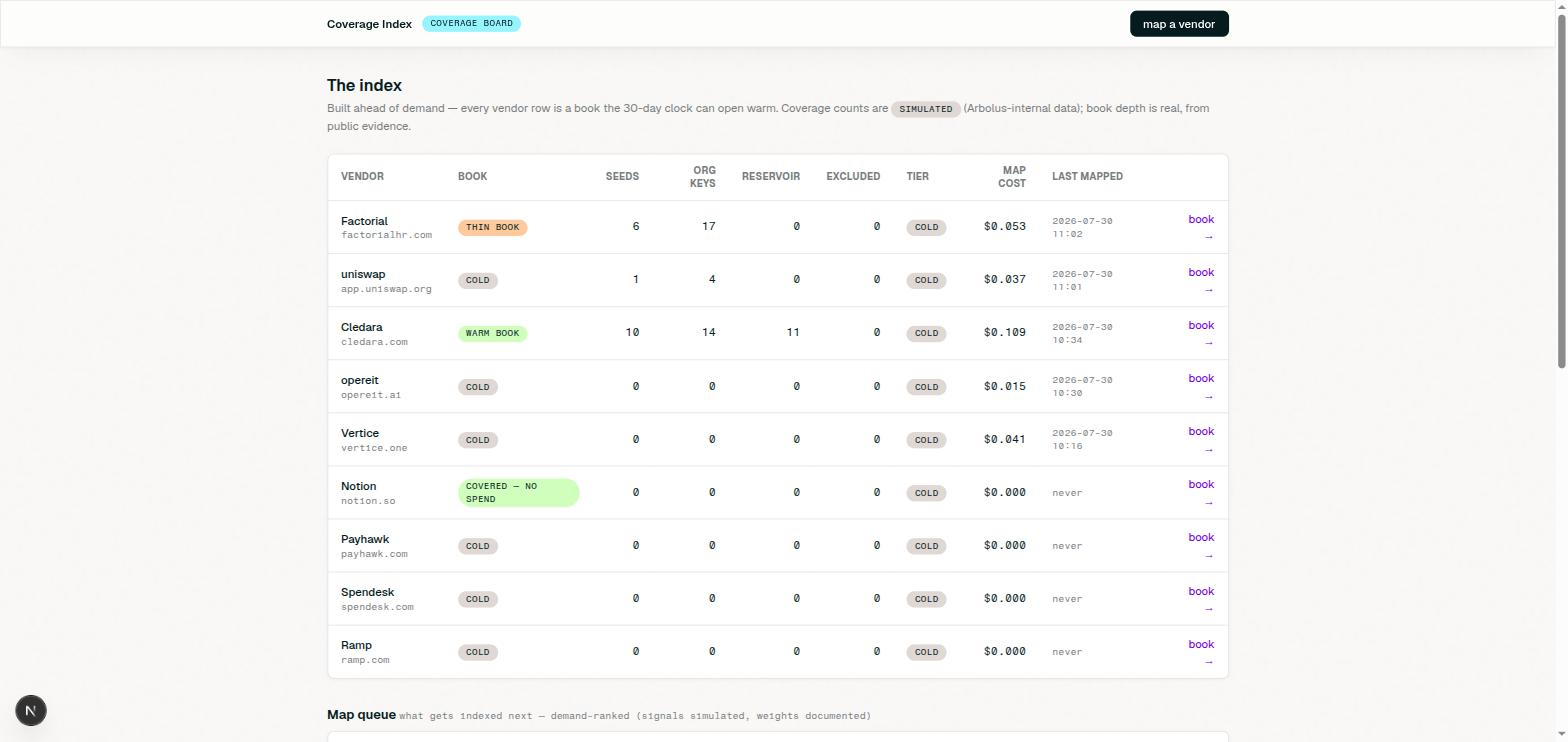
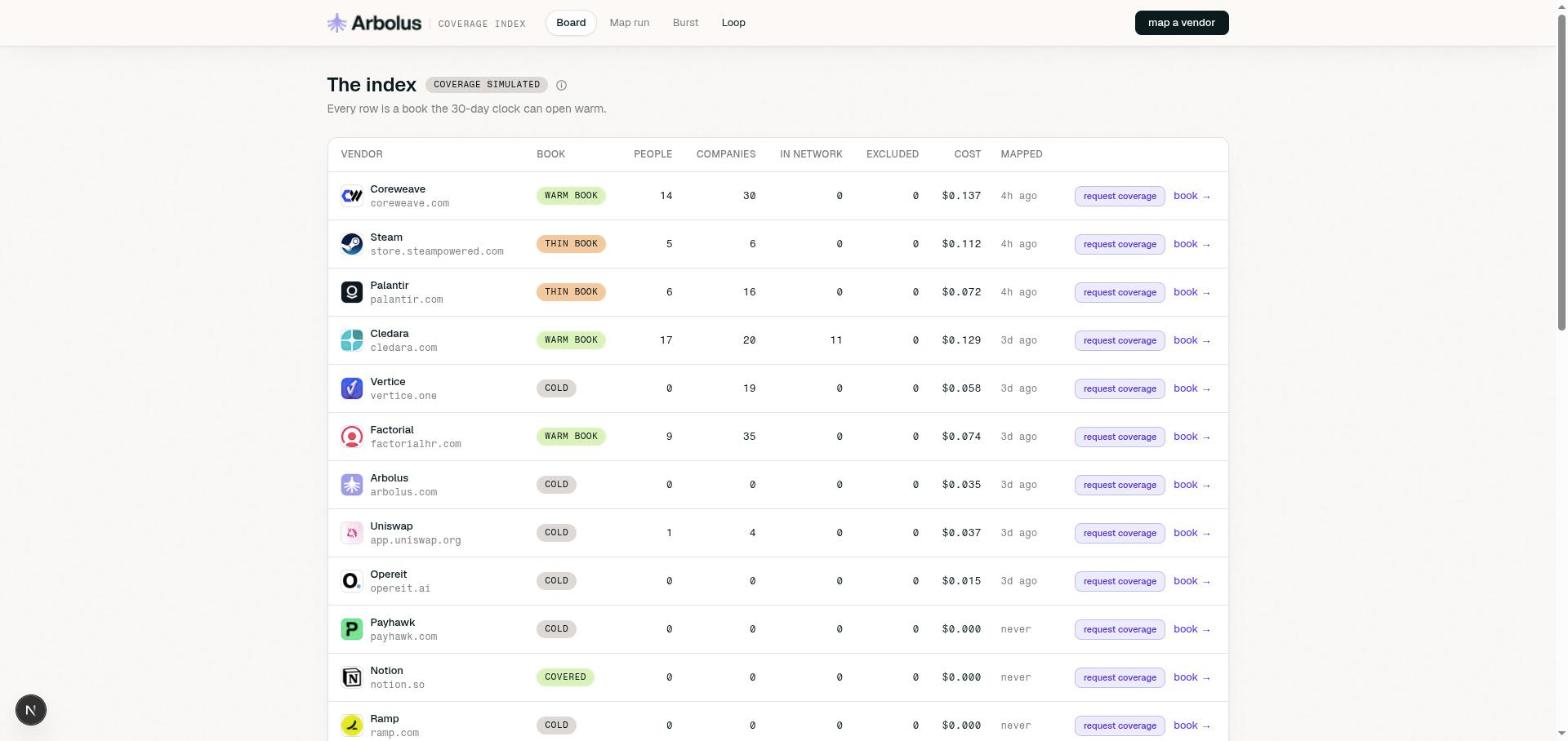
feat(loop): the head-vs-tail curve opens the page — ink-wash SVG schematic with the demand-event marker; README refreshed with current screenshots and surfaces
The curve is the case in one shape: the head spike (2,000+ reviews
each) where today's loops pay, the empty tail of 20,000 companies, the
covered=20 dashed line barely off the baseline, and a violet marker
where 'a client opens a company here → the burst fires'. Labelled
ILLUSTRATIVE — the shape, not Arbolus data; the anchors (2,000+, 20)
are real. Hand-drawn server-side SVG in the paper tokens — no chart
library for one schematic path.

README: 11-lane truth, all seven surfaces incl. /reference and /join,
fresh screenshots of the final UI (old ones predated the paper pass and
the renames).

Claude-Session: https://claude.ai/code/session_01LUn1Setz9H3FkjDAQijzPt

diff --git a/src/app/loop/distribution.tsx b/src/app/loop/distribution.tsx
@@ -1,0 +1,162 @@
+// The head-vs-tail curve — the whole case in one schematic. ILLUSTRATIVE:
+// the power-law shape every review marketplace shows, not Arbolus data.
+// The two anchors are real: head tools carry 2,000+ reviews each, and
+// covered means 20. Pure server-side SVG, paper style, one series with an
+// ink-wash gradient; the demand-event marker on the tail ties this curve
+// to the burst's trigger.
+
+const W = 800;
+const H = 210;
+const LEFT = 8;
+const RIGHT = 8;
+const BASE = 172; // baseline y
+const TOP = 30; // curve peak y
+const SPAN = BASE - TOP;
+
+// long-tail shape: h(0)=1 at the head, ~0 across the tail
+function h(t: number): number {
+  return Math.pow(0.004 / (t + 0.004), 1.1);
+}
+
+function build() {
+  const plotW = W - LEFT - RIGHT;
+  const pts: [number, number][] = [];
+  for (let i = 0; i <= 220; i++) {
+    const t = i / 220;
+    pts.push([LEFT + t * plotW, BASE - h(t) * SPAN]);
+  }
+  const line = pts
+    .map(([x, y], i) => `${i === 0 ? "M" : "L"}${x.toFixed(1)} ${y.toFixed(1)}`)
+    .join(" ");
+  const area = `${line} L${(W - RIGHT).toFixed(1)} ${BASE} L${LEFT} ${BASE} Z`;
+  // covered = 20 reviews vs a 2,000+ head → the threshold sits at ~1% of peak
+  const hThresh = 0.045;
+  const thresholdY = BASE - hThresh * SPAN;
+  const tCross = 0.004 / Math.pow(hThresh, 1 / 1.1) - 0.004;
+  const crossX = LEFT + tCross * plotW;
+  // the demand event: a client opens a company deep in the tail
+  const tEvent = 0.62;
+  const eventX = LEFT + tEvent * plotW;
+  const eventY = BASE - h(tEvent) * SPAN;
+  return { area, line, thresholdY, crossX, eventX, eventY };
+}
+
+export default function Distribution() {
+  const { area, line, thresholdY, crossX, eventX, eventY } = build();
+  return (
+    <svg
+      viewBox={`0 0 ${W} ${H + 20}`}
+      className="mt-3 h-auto w-full"
+      role="img"
+      aria-label="Illustrative distribution of reviews across companies: a small head of tools with thousands of reviews each, and a long tail of companies with none. The covered threshold of twenty reviews sits just above the tail, and a marker shows a client opening an uncovered company deep in the tail."
+    >
+      <defs>
+        <linearGradient id="dist-wash" x1="0" y1="0" x2="0" y2="1">
+          <stop offset="0%" stopColor="var(--color-violet-300)" stopOpacity="0.55" />
+          <stop offset="55%" stopColor="var(--color-violet-200)" stopOpacity="0.3" />
+          <stop offset="100%" stopColor="var(--color-violet-100)" stopOpacity="0.08" />
+        </linearGradient>
+      </defs>
+
+      {/* the one series — ink-wash area + line */}
+      <path d={area} fill="url(#dist-wash)" />
+      <path
+        d={line}
+        className="stroke-violet-link"
+        strokeWidth="2"
+        fill="none"
+        strokeLinecap="round"
+      />
+
+      {/* baseline */}
+      <line x1={LEFT} y1={BASE} x2={W - RIGHT} y2={BASE} className="stroke-line" strokeWidth="1" />
+
+      {/* covered = 20 threshold */}
+      <line
+        x1={LEFT}
+        y1={thresholdY}
+        x2={W - RIGHT}
+        y2={thresholdY}
+        className="stroke-ink-35"
+        strokeWidth="1"
+        strokeDasharray="4 4"
+      />
+      <text
+        x={LEFT + 96}
+        y={thresholdY - 6}
+        className="fill-subtle font-mono"
+        fontSize="10"
+        letterSpacing="0.06em"
+      >
+        COVERED = 20 REVIEWS
+      </text>
+
+      {/* head/tail boundary tick */}
+      <line
+        x1={crossX}
+        y1={thresholdY}
+        x2={crossX}
+        y2={BASE}
+        className="stroke-ink-35"
+        strokeWidth="1"
+        strokeDasharray="2 3"
+      />
+
+      {/* head annotation */}
+      <text x={crossX + 18} y={TOP + 14} className="fill-ink" fontSize="13" fontWeight="500">
+        the head — a few tools, 2,000+ reviews each
+      </text>
+      <text x={crossX + 18} y={TOP + 32} className="fill-subtle" fontSize="12">
+        today&rsquo;s loops feed here: views live here, so the royalty pays here
+      </text>
+
+      {/* tail annotation */}
+      <text x={W * 0.42} y={BASE - 78} className="fill-ink" fontSize="13" fontWeight="500">
+        the tail — most of 20,000 companies at zero
+      </text>
+      <text x={W * 0.42} y={BASE - 60} className="fill-subtle" fontSize="12">
+        the index aims every loop here
+      </text>
+
+      {/* the demand event on the tail — the burst's trigger, drawn */}
+      <line
+        x1={eventX}
+        y1={eventY - 4}
+        x2={eventX}
+        y2={eventY - 26}
+        className="stroke-violet-link"
+        strokeWidth="1"
+      />
+      <circle
+        cx={eventX}
+        cy={eventY}
+        r="4.5"
+        className="fill-card stroke-violet-link"
+        strokeWidth="2"
+      />
+      <circle cx={eventX} cy={eventY} r="9" className="stroke-violet-300" strokeWidth="1" fill="none" opacity="0.6" />
+      <text
+        x={eventX}
+        y={eventY - 34}
+        textAnchor="middle"
+        className="fill-violet-link font-mono"
+        fontSize="10"
+        letterSpacing="0.06em"
+      >
+        A CLIENT OPENS A COMPANY HERE → THE BURST FIRES
+      </text>
+
+      {/* x axis label */}
+      <text
+        x={W / 2}
+        y={H + 12}
+        textAnchor="middle"
+        className="fill-subtle font-mono"
+        fontSize="10"
+        letterSpacing="0.06em"
+      >
+        COMPANIES, RANKED BY NUMBER OF REVIEWS →
+      </text>
+    </svg>
+  );
+}

diff --git a/src/app/loop/page.tsx b/src/app/loop/page.tsx
@@ -4,6 +4,7 @@ import AppHeader from "@/components/shell/app-header";
 import SiteFooter from "@/components/shell/site-footer";
 import InfoHint from "@/components/ui/info-hint";
 import { vendorName } from "../vendor-name";
+import Distribution from "./distribution";
 import MetricTiles from "./metric-tiles";
 
 export const dynamic = "force-dynamic";
@@ -90,7 +91,25 @@ export default async function LoopPage() {
           </InfoHint>
         </div>
 
-        <div className="mt-5 grid gap-6 lg:grid-cols-2">
+        {/* the head-vs-tail curve — the whole case in one shape */}
+        <section className="reveal reveal-d1 mt-5">
+          <div className="pane p-5">
+            <div className="flex flex-wrap items-center gap-2">
+              <h2 className="eyebrow">where the reviews are today</h2>
+              <span className="pill bg-city-sanjose">illustrative</span>
+              <InfoHint>
+                The shape every review marketplace shows, drawn schematically —
+                this is not Arbolus&rsquo;s data. The two anchors are real: head
+                tools carry 2,000+ reviews each, and covered means 20. Per-view
+                royalties concentrate all earnings on the head, so the tail stays
+                empty — which is the whole case in one curve.
+              </InfoHint>
+            </div>
+            <Distribution />
+          </div>
+        </section>
+
+        <div className="mt-8 grid gap-6 lg:grid-cols-2">
           {/* R0 offer */}
           <section className="reveal reveal-d1 self-start rounded-xl border border-violet-100 bg-violet-50 p-5">
             <div className="flex flex-wrap items-center gap-2">

diff --git a/README.md b/README.md
@@ -15,22 +15,24 @@ The index is built **ahead of demand** from public evidence, with provenance and
 
 | Live (real public data) | Simulated (labelled in the UI) |
 |---|---|
-| 6-lane map run: sitemap harvest, customer-page extraction, Wayback churn diff, ATS job-post sweep, PeerSpot, SERP long-tail | The demand trigger (their API has no write path — probe-verified) |
-| Claude classification: persona class, 4-part confidence decomposition | Arbolus-internal coverage counts |
-| The 8 eligibility checks, rejections stored with reasons | The 200k expert reservoir (synthetic base — the **join logic is real**) |
-| Per-lane cost + latency journaling, response cache | Invite sends (drafted, never sent — `sent=false` is never flipped) |
+| 11-lane map run: 7 live in every run (sitemap harvest, customer pages, Wayback churn diff, logo-wall diff, ATS job-post sweep, PeerSpot, SERP long-tail) + 3 nightly local (community, EU TED procurement, GitHub verify-only) + the classify step | The demand trigger (their API has no write path — probe-verified) |
+| Claude classification — the engine's only AI step: persona class, 4-part confidence decomposition | Arbolus-internal coverage counts |
+| The 8 eligibility checks, rejections stored with reasons | The 200k expert base (synthetic — the **in-network join logic is real**) |
+| Per-lane cost + latency journaling, the learning loop's budget reallocation | Invite sends (drafted per candidate, never sent — `sent=false` is never flipped) |
 
 ## Surfaces
 
-- `/run` — the map run, streaming live over SSE (terminal view)
-- `/coverage` — the index at a glance; book depth per vendor
-- `/book/[domain]` — candidates under a masking contract (one unmask toggle), exclusions with reasons, reservoir join, channel-legality mask
-- `/burst` — the 30-day clock: trigger branch from the real book state, the walk-to-20 with every assumption labelled, cost vs the manual baseline
-- `/loop` — the activation loops and the one scoped offer change (R0)
+- `/coverage` — the index at a glance: book depth per vendor, the demand-ranked map queue, the learning loop
+- `/run` — the map run, streaming live over SSE, with cost and time on the ticker
+- `/book/[domain]` — the output: candidates under a masking contract (one unmask toggle), evidence with provenance, per-person reach and the composer's invite draft, exclusions with reasons, the contact-legality panel
+- `/burst` — the 30-day clock: trigger branch from the real book state, the walk-to-20 with every assumption labelled and priced live, cost vs the manual baseline
+- `/loop` — the head-vs-tail curve, the activation loops, and the one scoped offer change
+- `/join/[domain]` — the contributor-facing conversion page every invite links to
+- `/reference` — the data dictionary: every column, every formula, every threshold
 
 ## Stack
 
-Next.js (App Router) + Supabase + Claude API on Vercel. Identities in rendered output are masked by default; evidence provenance is stored in full. AI runs acquisition, matching and verification — it never authors contributor content.
+Next.js (App Router) + Supabase + Claude API on Vercel. Identities in rendered output are masked server-side by default; evidence provenance is stored in full. AI runs acquisition, matching and verification — it never authors contributor content.
 
 ## Run it
 
@@ -40,4 +42,4 @@ cp .env.example .env.local   # fill in keys
 npm run dev
 ```
 
-Required env: `SUPABASE_URL`, `SUPABASE_SERVICE_ROLE_KEY`, `ANTHROPIC_API_KEY`; optional: `SERPER_API_KEY` (serp lane reports itself dark without it), `JINA_API_KEY`, `GATE_PASSWORD`.
+Required env: `SUPABASE_URL`, `SUPABASE_SERVICE_ROLE_KEY`, `ANTHROPIC_API_KEY`; optional: `SERPER_API_KEY` (the serp lane reports itself dark without it), `JINA_API_KEY`, `GATE_PASSWORD`.
